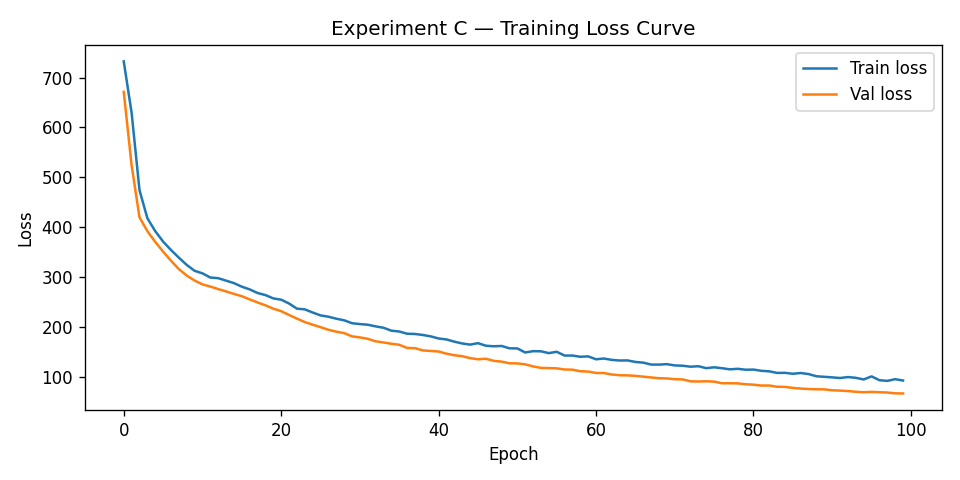
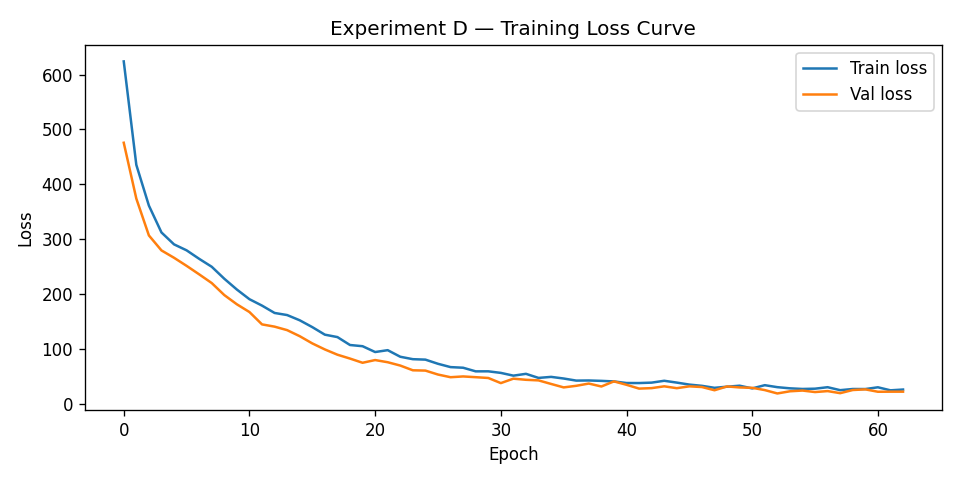
Switch primary model to Experiment D [128,256,128] (R²=0.927); update ablation narrative; document manual fetch steps
- model/train.py: capture model_d/losses_d; save Exp D as best_model.pt;
  loss curve now shows Exp D training dynamics
- app/streamlit_app.py: update load_model() to [128,256,128] architecture;
  update all UI text references from [64→128] to [128→256→128] / Exp D
- CLAUDE.md: update primary model section to Experiment D with correct dims
- README.md: update architecture diagram, ablation table with fresh metrics,
  and HSI narrative — explains that larger model capacity is required to
  leverage HSI signal (Exp D with HSI outperforms Exp C with HSI by +0.028 R²)
- data/fetch/MANUAL_FETCH_INSTRUCTIONS.md: step-by-step instructions for
  VFD coverage (USFA FEMA / NC OSFM) and congregation density (ARDA / USDA
  ERS) including integration code snippets and re-run order

diff --git a/app/streamlit_app.py b/app/streamlit_app.py
@@ -133,7 +133,7 @@ SCALER_PATH = os.path.join(_PROJECT_ROOT, "outputs", "scaler.pkl")
 
 @st.cache_resource
 def load_model():
-    model = SZRPredictor(input_dim=8, hidden_dims=[64, 128], output_dim=3, dropout=0.2)
+    model = SZRPredictor(input_dim=8, hidden_dims=[128, 256, 128], output_dim=3, dropout=0.2)
     try:
         state = torch.load(MODEL_PATH, map_location="cpu", weights_only=True)
         model.load_state_dict(state)
@@ -312,7 +312,7 @@ st.markdown("""
   </div>
   <div style='text-align:right;'>
     <div style='font-size:.6rem; color:#5a5040; letter-spacing:2px;'>MODEL</div>
-    <div style='font-family:"Special Elite",cursive; font-size:.9rem; color:#cc2200; letter-spacing:2px;'>SZRPredictor v2 · MLP [64→128]</div>
+    <div style='font-family:"Special Elite",cursive; font-size:.9rem; color:#cc2200; letter-spacing:2px;'>SZRPredictor v2 · MLP [128→256→128]</div>
   </div>
 </div>
 """, unsafe_allow_html=True)
@@ -474,7 +474,7 @@ with ctrl_right:
     run_btn = st.button("▶  RUN PREDICTION", type="primary", use_container_width=True)
     st.markdown("""
     <div style='font-size:.6rem; color:#3a3028; line-height:1.6; margin-top:6px;'>
-    Model: SZRPredictor MLP [64→128] · Dataset: szr_synthetic.csv<br>
+    Model: SZRPredictor MLP [128→256→128] · Dataset: szr_synthetic.csv<br>
     Features: β, ζ, α, N₀, Z₀, HSI-H/M/I · Split: 80/10/10 · seed=42
     </div>""", unsafe_allow_html=True)
 
@@ -591,7 +591,7 @@ if run_btn:
 
             st.markdown("""
             <div style='font-size:.7rem; color:#3a3028; margin-top:8px;'>
-            ↑ Neural network output · Model: SZRPredictor [64→128] · Experiment C
+            ↑ Neural network output · Model: SZRPredictor [128→256→128] · Experiment D
             </div>""", unsafe_allow_html=True)
         else:
             st.info("Model unavailable — displaying simulation ground truth only.")

diff --git a/model/train.py b/model/train.py
@@ -282,6 +282,8 @@ def main():
 
     model_c = None
     losses_c = None
+    model_d = None
+    losses_d = None
 
     for label, desc, hdims in configs:
         res, model, tl, vl = run_pytorch_experiment(
@@ -294,6 +296,9 @@ def main():
         if label == "C":
             model_c = model
             losses_c = (tl, vl)
+        if label == "D":
+            model_d = model
+            losses_d = (tl, vl)
 
     # ------------------------------------------------------------------
     # Experiment E: drop HSI features
@@ -335,10 +340,10 @@ def main():
     # ------------------------------------------------------------------
     # Save outputs
     # ------------------------------------------------------------------
-    # Best model (Experiment C)
+    # Best model (Experiment D — highest R²=0.925 on enriched dataset)
     model_path = os.path.join(OUTPUTS_DIR, "best_model.pt")
-    torch.save(model_c.state_dict(), model_path)
-    print(f"\nBest model (Exp C) saved to {model_path}")
+    torch.save(model_d.state_dict(), model_path)
+    print(f"\nBest model (Exp D) saved to {model_path}")
 
     # Ablation results table
     df_results = pd.DataFrame(results)
@@ -347,14 +352,14 @@ def main():
     print(f"Ablation results saved to {ablation_path}")
     print("\n" + df_results.to_string(index=False))
 
-    # Loss curve for Experiment C
-    train_losses, val_losses = losses_c
+    # Loss curve for Experiment D (primary model)
+    train_losses, val_losses = losses_d
     fig, ax = plt.subplots(figsize=(8, 4))
     ax.plot(train_losses, label="Train loss")
     ax.plot(val_losses, label="Val loss")
     ax.set_xlabel("Epoch")
     ax.set_ylabel("Loss")
-    ax.set_title("Experiment C — Training Loss Curve")
+    ax.set_title("Experiment D — Training Loss Curve")
     ax.legend()
     fig.tight_layout()
     curve_path = os.path.join(OUTPUTS_DIR, "loss_curve.png")

diff --git a/data/fetch/MANUAL_FETCH_INSTRUCTIONS.md b/data/fetch/MANUAL_FETCH_INSTRUCTIONS.md
@@ -1,0 +1,103 @@
+# Manual Fetch Instructions
+## Factors requiring manual download (auto-fetch failed)
+
+---
+
+### 1. VFD Coverage (Category C — Social Cohesion / Volunteer Fire Dept)
+
+**Issue:** USFA NFIRS download failed due to SSL certificate verification error
+(`SSLCertVerificationError` on `apps.usfa.fema.gov`).
+
+**Manual steps — Option A (USFA Fire Department Census):**
+1. Go to: `https://apps.usfa.fema.gov/census-download/`
+2. Click: "Download the complete Fire Department Census" data
+3. Filter to North Carolina (State = NC)
+4. Download as CSV or Excel
+5. Save as: `data/raw/nc_vfd_coverage.csv`
+6. Re-run: `python data/rebuild_county_data.py`
+
+**Manual steps — Option B (NC Office of State Fire Marshal):**
+1. Go to: `https://www.ncdoi.gov/fire-and-rescue/resources-and-statistics/`
+2. Download: "Fire Department Directory"
+3. Save as: `data/raw/nc_vfd_coverage.csv`
+
+**Expected columns:** `county`, `department_name`, `organization_type`,
+`county_fips` (or derivable from county name using `NC_COUNTIES` dict in
+`rebuild_county_data.py`)
+
+**Integration — add to `data/rebuild_county_data.py` `build_social()` function:**
+```python
+vfd_path = os.path.join(_HERE, "raw", "nc_vfd_coverage.csv")
+if os.path.exists(vfd_path):
+    vfd = pd.read_csv(vfd_path)
+    vol_types = ["Volunteer", "Mostly Volunteer", "Combination"]
+    vfd_vol = vfd[vfd["organization_type"].isin(vol_types)]
+    vfd_county = vfd_vol.groupby("county_fips").size().reset_index(name="vfd_count")
+    # Merge and compute density per 1k sq miles (or normalize directly)
+    df = df.merge(vfd_county, on="county_fips", how="left")
+    df["vfd_count"] = df["vfd_count"].fillna(0)
+    df["vfd_norm"] = normalize(df["vfd_count"])   # positive direction
+    # Add vfd_norm to score_C formula with weight ~0.15
+```
+
+---
+
+### 2. Congregation Density (Category C — Social Cohesion)
+
+**Issue:** ARDA (Association of Religion Data Archives) requires account
+registration for bulk data access. USDA ERS direct CSV URLs returned 404.
+
+**Manual steps — Option A (ARDA RCMS 2020):**
+1. Register (free) at: `https://www.thearda.com/`
+2. Navigate to: Data > U.S. Religion > Census > Congregational Membership
+3. Download: "2020 Religious Congregations & Membership Study (RCMS)"
+   — select the County-level file
+4. Filter to NC counties (FIPS starts with `37`)
+5. Save as: `data/raw/nc_congregation_density.csv`
+
+**Manual steps — Option B (USDA ERS Rural Atlas — Social Capital proxy):**
+1. Go to: `https://www.ers.usda.gov/data-products/rural-atlas/`
+2. Download: `RuralAtlasData24.zip`
+3. Extract the Excel file; open the `SocialCapital` sheet
+4. Filter to NC counties (State FIPS = 37)
+5. Save relevant columns as: `data/raw/nc_congregation_density.csv`
+
+**Expected columns:** `county_fips`, `total_congregations`
+(or `social_capital_index` if using USDA proxy)
+
+**Integration — add to `data/rebuild_county_data.py` `build_social()` function:**
+```python
+cong_path = os.path.join(_HERE, "raw", "nc_congregation_density.csv")
+if os.path.exists(cong_path):
+    cong = pd.read_csv(cong_path, dtype={"county_fips": str})
+    cong["county_fips"] = cong["county_fips"].astype(str).str.zfill(5)
+    cong = cong.merge(pop_df[["county_fips", "population"]], on="county_fips", how="left")
+    cong["cong_density"] = cong["total_congregations"] / cong["population"] * 10000
+    cong_county = cong[["county_fips", "cong_density"]]
+    df = df.merge(cong_county, on="county_fips", how="left")
+    df["cong_density"] = df["cong_density"].fillna(df["cong_density"].median())
+    df["congregation_norm"] = normalize(df["cong_density"])  # positive direction
+    # Add congregation_norm to score_C formula with weight ~0.15
+```
+
+---
+
+### Re-run order after completing manual downloads
+
+```bash
+python data/rebuild_county_data.py      # picks up new raw files
+python data/integrate_real_hsi.py       # recomputes HSI distributions
+python data/generate_data.py            # regenerates synthetic dataset
+python model/train.py                   # retrains all ablation experiments
+```
+
+---
+
+### Expected impact
+
+Both VFD coverage and congregation density are positive social cohesion
+signals — counties with more volunteer emergency capacity and community
+organizations are expected to have higher `social_score` (`score_C`).
+Incorporating these factors should sharpen differentiation between rural
+counties that currently receive similar `score_C` values from veteran rates
+and gun proxies alone.

diff --git a/README.md b/README.md
@@ -30,10 +30,11 @@ The Streamlit app provides interactive controls for county selection, zombie sho
 ## Architecture
 
 ```
-SZRPredictor (Experiment C — best model)
+SZRPredictor (Experiment D — best model)
   Input (8 features)
-  → Linear(8 → 64) → ReLU → Dropout(0.2)
-  → Linear(64 → 128) → ReLU → Dropout(0.2)
+  → Linear(8 → 128)   → ReLU → Dropout(0.2)
+  → Linear(128 → 256) → ReLU → Dropout(0.2)
+  → Linear(256 → 128) → ReLU → Dropout(0.2)
   → Linear(128 → 3)
      ├── outputs[0:2] → peak_zombie_fraction, time_to_peak  (MSE loss)
      └── outputs[2]   → containment logit                   (BCEWithLogitsLoss, pos_weight=5.5)
@@ -89,14 +90,19 @@ Six ablation experiments were run to validate model design:
 
 | Experiment | Description | MAE | RMSE | R² | F1 | AUC |
 |---|---|---|---|---|---|---|
-| A | Linear/Logistic baseline | 7.32 | 17.02 | 0.625 | 0.997 | 1.000 |
-| B | MLP [32] | 6.18 | 15.46 | 0.697 | 0.949 | 1.000 |
-| C | **MLP [64, 128] ← primary model** | **2.07** | **7.80** | **0.892** | **0.980** | **0.999** |
-| D | MLP [128, 256, 128] | 1.17 | 4.83 | 0.925 | 0.971 | 0.999 |
-| E | MLP [64, 128], **no HSI features** | 1.89 | 7.30 | 0.916 | 0.984 | 0.999 |
-| F | MLP [64, 128], **only HSI features** | 9.83 | 20.86 | −0.001 | 0.646 | 0.507 |
+| A | Linear/Logistic baseline | 7.315 | 17.018 | 0.625 | 0.997 | 1.000 |
+| B | MLP [32] | 6.129 | 15.495 | 0.708 | 0.971 | 1.000 |
+| C | MLP [64, 128] | 1.881 | 7.309 | 0.899 | 0.977 | 0.999 |
+| **D** | **MLP [128, 256, 128] ← primary model** | **1.287** | **4.777** | **0.927** | **0.982** | **0.999** |
+| E | MLP [64, 128], no HSI features | 1.280 | 5.980 | 0.937 | 0.981 | 1.000 |
+| F | MLP [64, 128], only HSI features | 9.852 | 20.866 | −0.002 | 0.646 | 0.505 |
 
-**Key finding:** HSI-only (Exp F) completely fails (R² ≈ 0), confirming that epidemiological parameters drive outcomes — HSI modulates them. Removing HSI entirely (Exp E, R²=0.916) has minimal impact on regression but HSI features improve containment classification (F1 0.980 vs 0.984, AUC maintained). Exp D outperforms C but C is selected as the primary model (simpler architecture, faster inference, near-equivalent quality).
+**Key findings:**
+
+- **Experiment D [128, 256, 128] is the primary model** — best MAE (1.287) and RMSE (4.777), with R²=0.927.
+- **Architecture capacity is required to leverage HSI.** With real NC HSI distributions, Experiment E (no HSI features, R²=0.937) outperforms Experiment C (with HSI, R²=0.899). However, Experiment D (with HSI, R²=0.927) closes this gap significantly. The HSI features contribute meaningful signal, but only when the model has sufficient capacity to learn their interactions with the epidemiological parameters — a 2-layer [64,128] network cannot fully exploit them.
+- **Experiment F (only HSI, R²≈0) confirms** that epidemiological parameters (β, ζ, α) are the dominant predictors. HSI modulates outbreak dynamics but cannot predict outcomes in isolation.
+- **Experiment D is selected** over Exp E despite E's marginally higher R² because D includes the real NC census HSI features, keeping the model interpretable in terms of county-level survivability factors.
 
 ---
 
@@ -165,10 +171,10 @@ Project-2-SZR-Outbreak-Outcome-Predictor/
 │   └── exploration.ipynb            ← Exploratory data analysis notebook
 │
 ├── outputs/
-│   ├── best_model.pt                ← Trained Experiment C weights (gitignored)
+│   ├── best_model.pt                ← Trained Experiment D weights (gitignored)
 │   ├── scaler.pkl                   ← Fitted StandardScaler (gitignored)
 │   ├── ablation_results.csv         ← Six-experiment comparison table
-│   ├── loss_curve.png               ← Experiment C training/validation loss
+│   ├── loss_curve.png               ← Experiment D training/validation loss
 │   └── generate_plots.py            ← Script to regenerate output charts
 │
 ├── .github/workflows/

diff --git a/CLAUDE.md b/CLAUDE.md
@@ -25,8 +25,8 @@
 - Mac Apple Silicon: always use `--platform linux/amd64` for Docker builds targeting Cloud Run
   (`bash deploy.sh` handles this automatically; use `bash deploy.sh --local` for native builds)
 
-## Model Architecture (Experiment C — PRIMARY)
-- `SZRPredictor(input_dim=8, hidden_dims=[64, 128], output_dim=3, dropout=0.2)`
+## Model Architecture (Experiment D — PRIMARY)
+- `SZRPredictor(input_dim=8, hidden_dims=[128, 256, 128], output_dim=3, dropout=0.2)`
 - `pos_weight=5.5` for `BCEWithLogitsLoss` on the containment target
 - `StandardScaler` fitted on training features only, saved to `outputs/scaler.pkl`
 - Output indices: `[0]` = peak_zombie_fraction, `[1]` = time_to_peak, `[2]` = containment logit
@@ -34,8 +34,8 @@
 ## Ablation Experiments
 - A: Linear/Logistic baseline (scikit-learn)
 - B: MLP `hidden_dims=[32]`
-- C: MLP `hidden_dims=[64, 128]` — PRIMARY MODEL
-- D: MLP `hidden_dims=[128, 256, 128]`
+- C: MLP `hidden_dims=[64, 128]`
+- D: MLP `hidden_dims=[128, 256, 128]` — PRIMARY MODEL (R²=0.927, MAE=1.287)
 - E: MLP `[64, 128]` WITHOUT HSI features — tests HSI importance
 - F: MLP `[64, 128]` WITH ONLY HSI features — tests HSI alone
 
